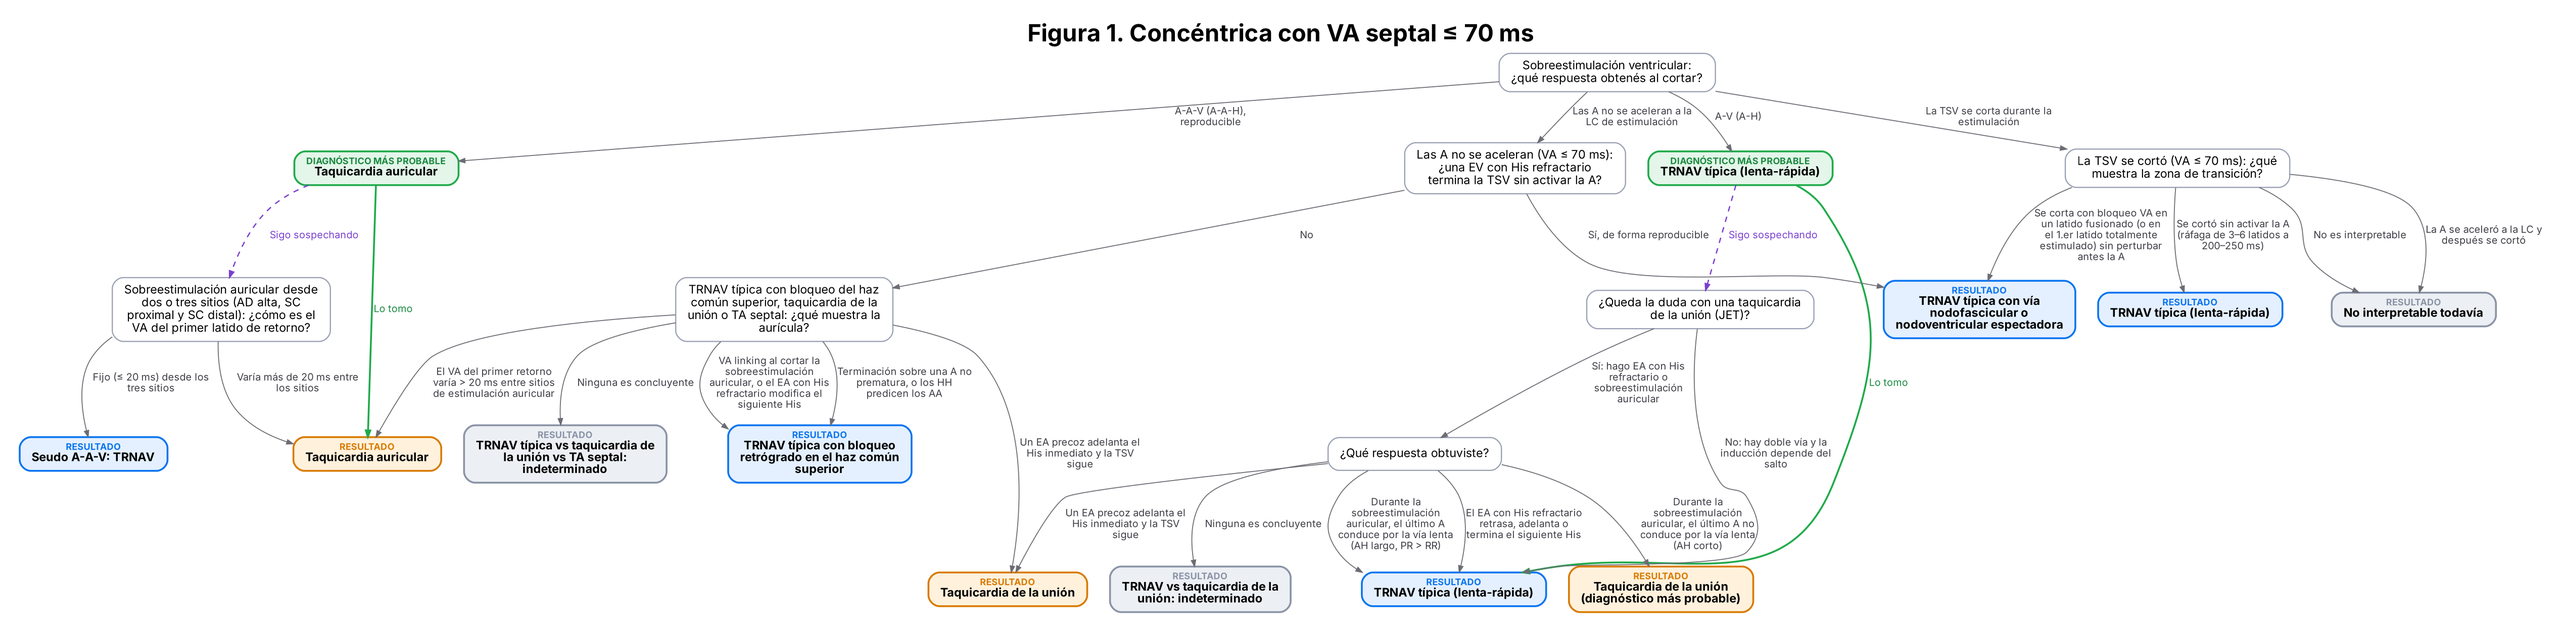
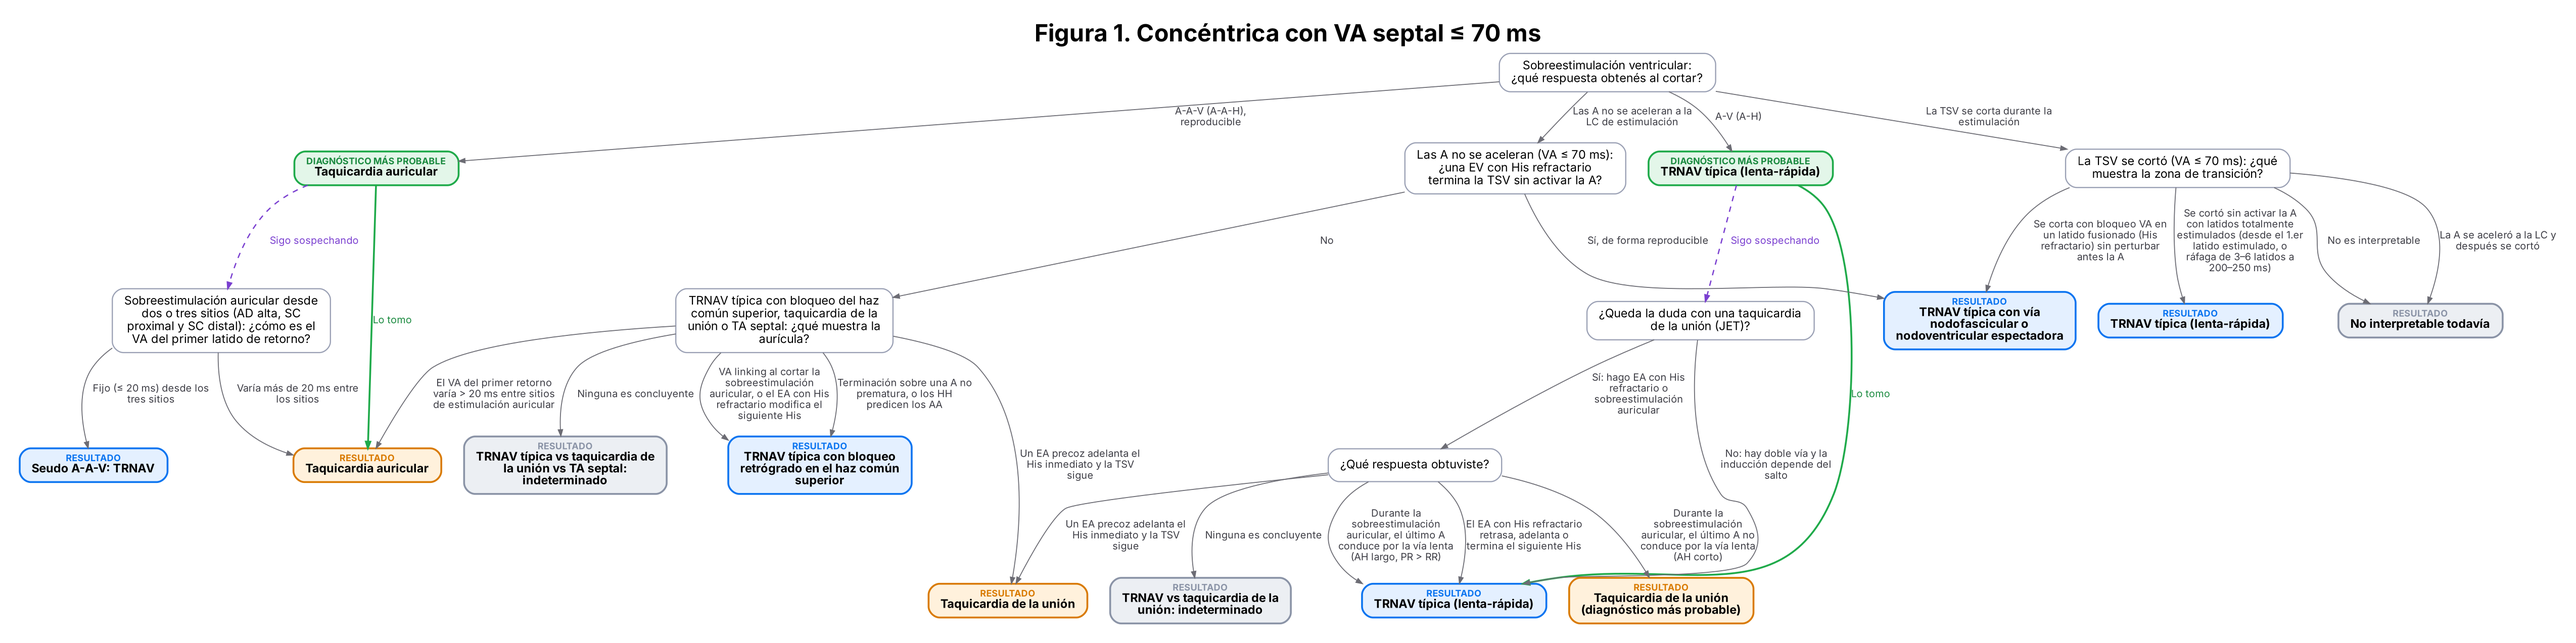
Algoritmo, figura 1: el corte en el 1.er latido totalmente estimulado no prueba una vía; solo el latido fusionado (His refractario)
Claude-Session: https://claude.ai/code/session_01Pw5rjpB73FvTjTKweDSans

diff --git a/index.html b/index.html
@@ -405,7 +405,7 @@ dialog::backdrop{background:rgba(0,0,0,.45)}
 <div id="visor" hidden role="dialog" aria-label="Imagen ampliada"><div class="vbar"><button type="button" class="vm" aria-label="Achicar">−</button><button type="button" class="vp" aria-label="Agrandar">+</button><button type="button" class="vf">Ajustar</button><button type="button" class="vx">✕ Cerrar</button></div><div class="vbox"><img alt="Imagen ampliada"></div></div>
 <script src="anim-index.js"></script>
 <script>
-const APPV = 236;   // igual al número de CACHE_VERSION de sw.js
+const APPV = 237;   // igual al número de CACHE_VERSION de sw.js
 try { document.getElementById('verPie').textContent = 'versión ' + APPV; } catch (e) {}
 // ===============================================================================================================
 // Referencias. "propia" = artículo del material base; las demás se citan a través de esas revisiones.
@@ -2192,7 +2192,7 @@ Object.assign(N, {
   noacc_e: { q: 'Las A no se aceleran con activación excéntrica: ¿una EV con His refractario termina la TSV sin activar la A?', help: 'Una vía nodoventricular o nodofascicular no explica una A excéntrica: no tiene inserción auricular y la aurícula se activaría desde el nodo (concéntrica). La A excéntrica sale por una vía AV de pared libre o por un foco auricular.', man: ['ehr', 'vop'], opts: [
     { t: 'Sí, de forma reproducible', s: 'Hay una vía AV que participa', go: 'L_ecc_slow' },
     { t: 'No', go: 'L_at_ecc' }] },
-  term_t: Object.assign({}, N.term, { q: 'La TSV se cortó (VA ≤ 70 ms): ¿qué muestra la zona de transición?', opts: N.term.opts.map((o, i) => i === 0 ? Object.assign({}, o, { s: 'Con VA ≤ 70 ms la TRAV está excluida: hay una vía que entra al circuito nodal', go: 'L_nvbys_t' }) : i === 2 ? Object.assign({}, o, { go: 'L_notat_t' }) : o) }),
+  term_t: Object.assign({}, N.term, { q: 'La TSV se cortó (VA ≤ 70 ms): ¿qué muestra la zona de transición?', opts: N.term.opts.map((o, i) => i === 0 ? Object.assign({}, o, { t: 'Se corta con bloqueo VA en un latido fusionado (His refractario) sin perturbar antes la A', s: 'Con VA ≤ 70 ms la TRAV está excluida: hay una vía que entra al circuito nodal', go: 'L_nvbys_t' }) : i === 2 ? Object.assign({}, o, { t: 'Se cortó sin activar la A con latidos totalmente estimulados (desde el 1.er latido estimulado, o ráfaga de 3–6 latidos a 200–250 ms)', s: 'Sin His refractario, el estímulo pudo entrar al nodo por el His: no prueba una vía', go: 'L_notat_t' }) : o) }),
   L_notat_t: { leaf: true, dx: 'TRNAV típica (lenta-rápida)', why: ['VA ≤ 70 ms: excluye TRAV.', 'La TSV terminó sin activar la aurícula: excluye TA.', 'Una taquicardia de la unión es automática y no se corta con estimulación: la terminación indica reentrada.'], next: ['Ablación de la vía lenta.', 'Si el contexto (lactante, posoperatorio) hace dudar de una taquicardia de la unión, confirmá con EA con His refractario.'], man: ['vop', 'eha'], refs: ['knight00', 'padanilam08', 'veen12'] },
   L_nvbys_t: { leaf: true, dx: 'TRNAV típica con vía nodofascicular o nodoventricular espectadora', why: ['VA ≤ 70 ms: la TRAV está excluida.', 'El ventrículo no forma parte del circuito (las A no siguieron a la estimulación), pero una EV con His refractario (o un latido fusionado) corta la TSV sin activar la A: entra al circuito nodal por una vía que se inserta cerca de la vía lenta.'], next: ['Ablación de la vía lenta: suele eliminar la TRNAV y la conducción por la vía espectadora.', 'Después, inducí de nuevo con y sin isoproterenol.'], man: ['ehr', 'vop'], refs: ['sriramoju22', 'nagashima20', 'kanai26'] },
   L_nvbys_s: { leaf: true, dx: 'TRNAV con vía nodofascicular o nodoventricular espectadora', sub: 'Con VA > 70 ms, habitualmente TRNAV atípica (lenta-lenta)', why: ['El ventrículo no forma parte del circuito: las A no siguieron a la estimulación (excluye la TRAV y la NVRT ortodrómica).', 'La EV con His refractario que corta la TSV sin activar la A excluye la TA y exige una vía que entre al circuito nodal.'], next: ['Ablación en la vía lenta o en la A más precoz cerca del ostium del SC.', 'Después, inducí de nuevo con y sin isoproterenol.'], man: ['ehr', 'vop'], refs: ['sriramoju22', 'nagashima20', 'ho15'] },

diff --git a/sw.js b/sw.js
@@ -1,6 +1,6 @@
 // Permite instalar la app y abrirla sin conexión. Primero la red (siempre lo último publicado); si no hay, la copia.
 // Si cambiás un archivo, subí CACHE_VERSION.
-const CACHE_VERSION = 'mef-v236';
+const CACHE_VERSION = 'mef-v237';
 const ARCHIVOS = ['./', './index.html', './anim.js', './anim-index.js', './manifest.json', './offline.json', './iconos/icon-192.png', './iconos/icon-512.png', './iconos/apple-touch-icon.png'];
 // 'mef-imagenes' guarda las imágenes que el usuario descargó para usar sin conexión: no se borra al actualizar.
 self.addEventListener('install', e => e.waitUntil(caches.open(CACHE_VERSION).then(c => c.addAll(ARCHIVOS)).then(() => self.skipWaiting())));

diff --git a/CLAUDE.md b/CLAUDE.md
@@ -60,7 +60,7 @@ Revisamos los flujogramas (`prototipos/flujo/`) figura por figura con el autor.
 - **Figura 0 (punto de partida): cerrada.** La secuencia "descendente" se integró a "Excéntrica". Se mantiene el corte de VA de 70 ms con la aclaración pediátrica en la ficha.
 - **Pregunta pendiente:** "Cardiopatía con posible doble nodo AV" está como opción de la secuencia auricular (es un contexto clínico): ¿se deja ahí o pasa a una pregunta previa?
 - **Ya corregido antes:** las ramas "las A no se aceleran" y "la TSV se corta" son propias de cada recorrido; después de A-A-V, la sobreestimulación auricular corta ahí (sin VA linking → TA; con VA linking → seudo A-A-V: TRNAV atípica, o PJRT con VA largo; con VA ≤ 70 → TRNAV).
-- **Figura 1 (VA ≤ 70 ms), en revisión (v236):** "se cortó sin activar la A" → TRNAV típica (`L_notat_t`); la taquicardia de la unión entró al título de `ucp_t` y a su indeterminado; en `jt2`/`jt2v`, "el último A no conduce por la vía lenta" → JET más probable (`L_jet_p`, Fan 2011).
+- **Figura 1 (VA ≤ 70 ms), en revisión (v236):** "se cortó sin activar la A" → TRNAV típica (`L_notat_t`); la taquicardia de la unión entró al título de `ucp_t` y a su indeterminado; en `jt2`/`jt2v`, "el último A no conduce por la vía lenta" → JET más probable (`L_jet_p`, Fan 2011). v237: en `term_t`, solo el latido fusionado (His refractario) va a vía NF/NV; el 1.er latido totalmente estimulado va a "sin activar la A" → TRNAV típica. Revisar lo mismo en `term` genérico (figuras 2–6).
 - **Siguiente:** cerrar la figura 1, después 2 a 6. Pendiente también: nodos gemelos con "las A no se aceleran" usa la versión del RP largo (revisar).
 
 ## Otros pendientes
